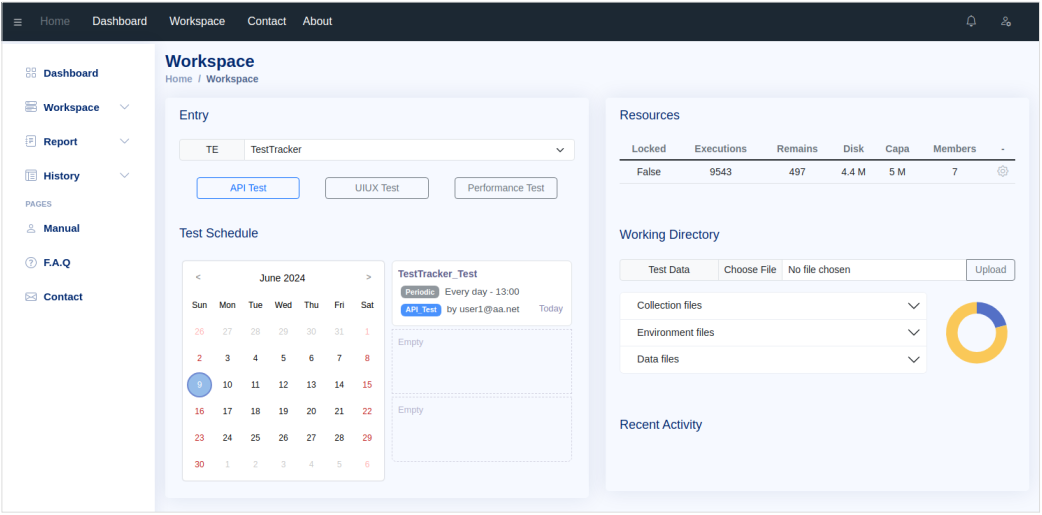
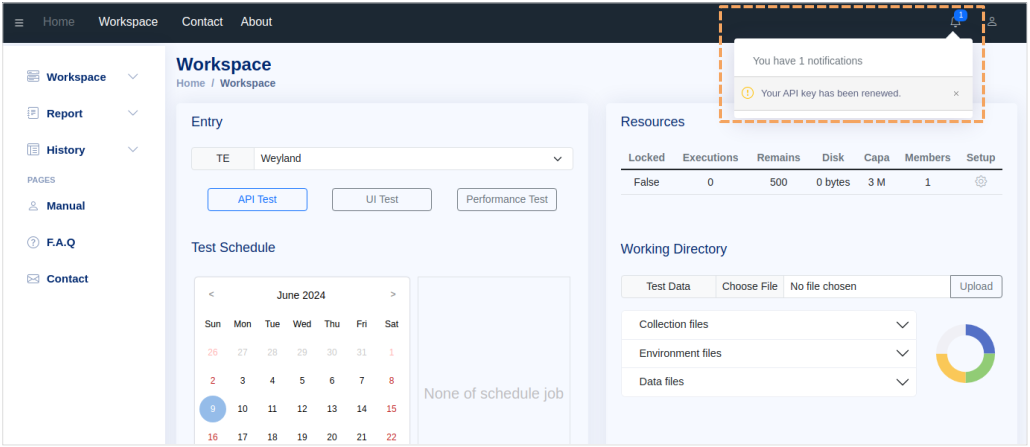
GITBOOK-53: schedule job 확인, 삭제 내용 작성

diff --git a/guides/user-guides/undefined-2.md b/guides/user-guides/undefined-2.md
@@ -24,7 +24,7 @@ TestTracker 의 API Test 기능은 [Postman](https://www.postman.com/)의 script
 
     <div align="left">
 
-    <figure><img src="../.gitbook/assets/image (1) (1) (1) (1).png" alt=""><figcaption></figcaption></figure>
+    <figure><img src="../.gitbook/assets/image (1) (1) (1) (1) (1).png" alt=""><figcaption></figcaption></figure>
 
     </div>
 3. 위 1. 에서 저장한 collection file 선택 후 열기(또는  OK) 버튼 클릭&#x20;
